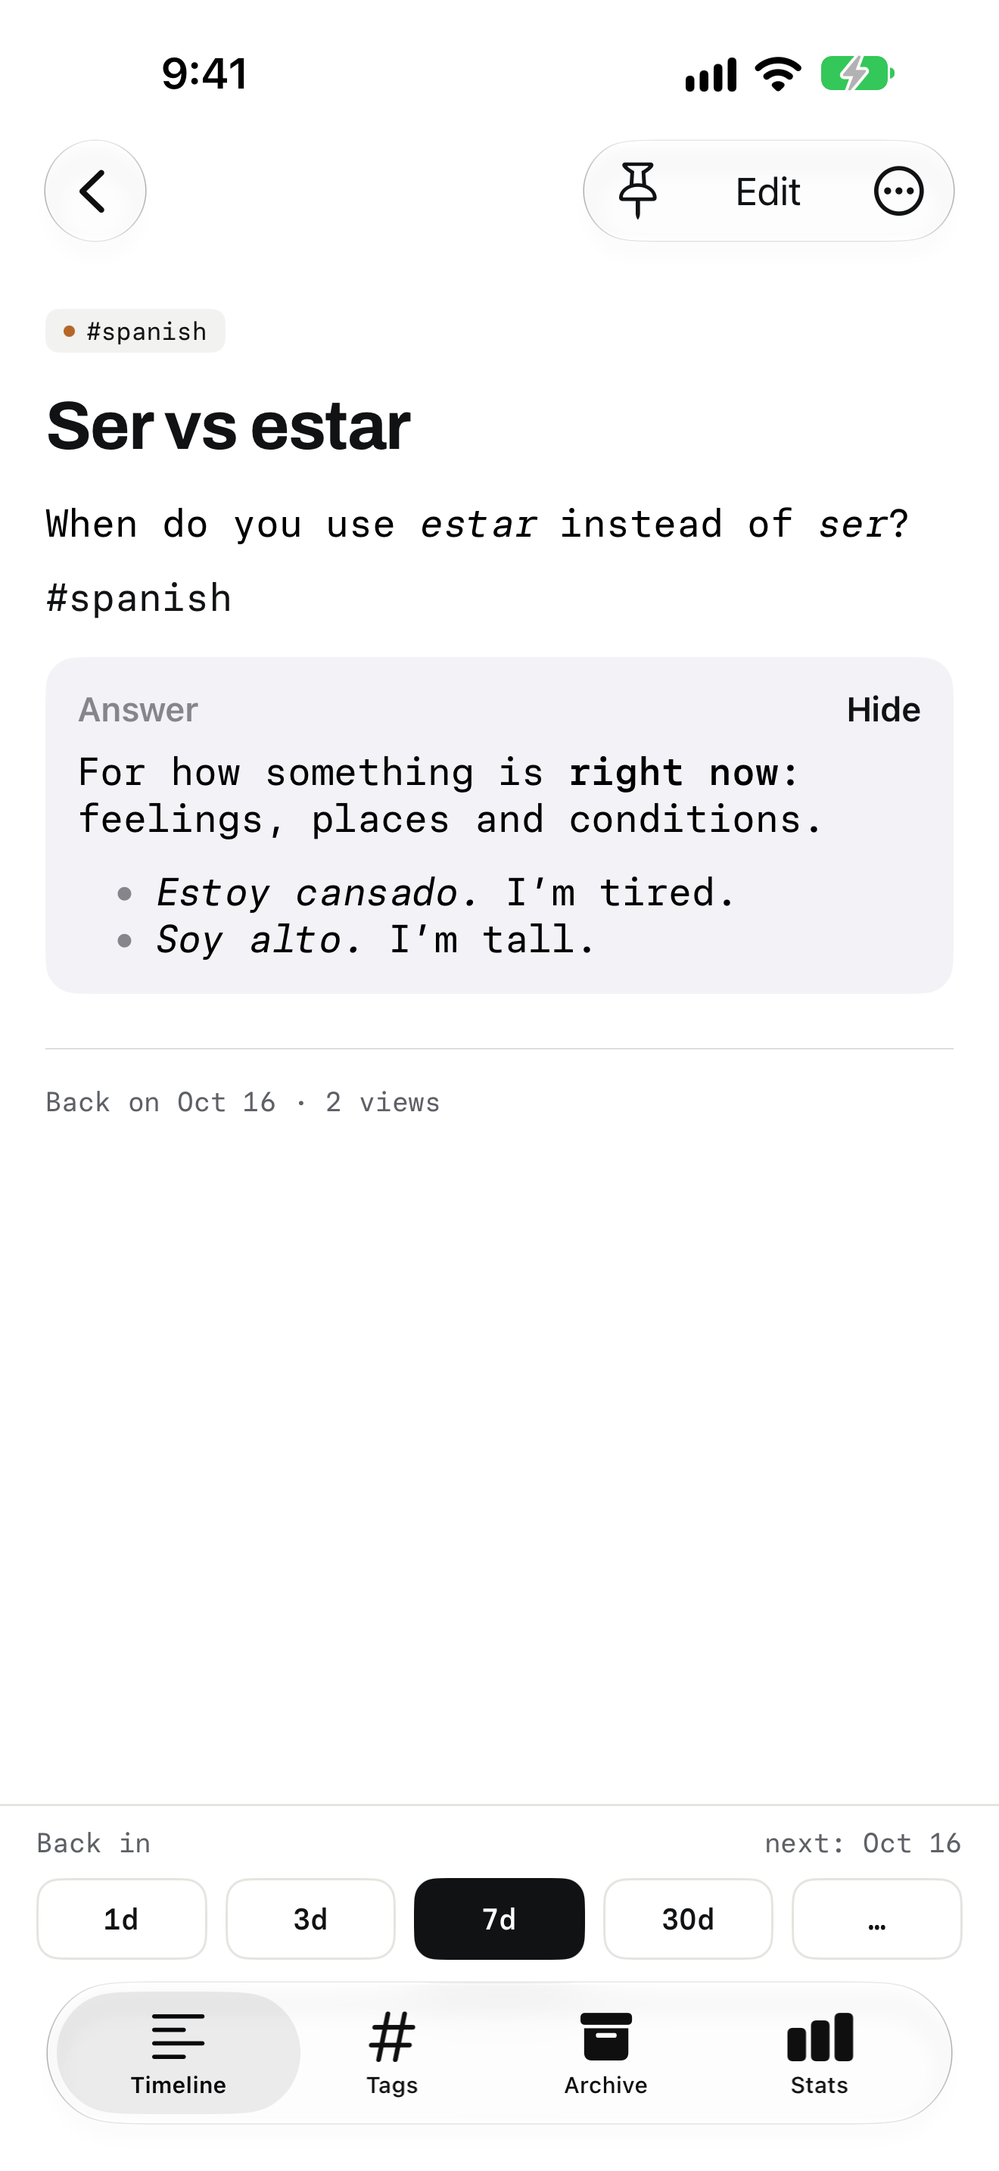
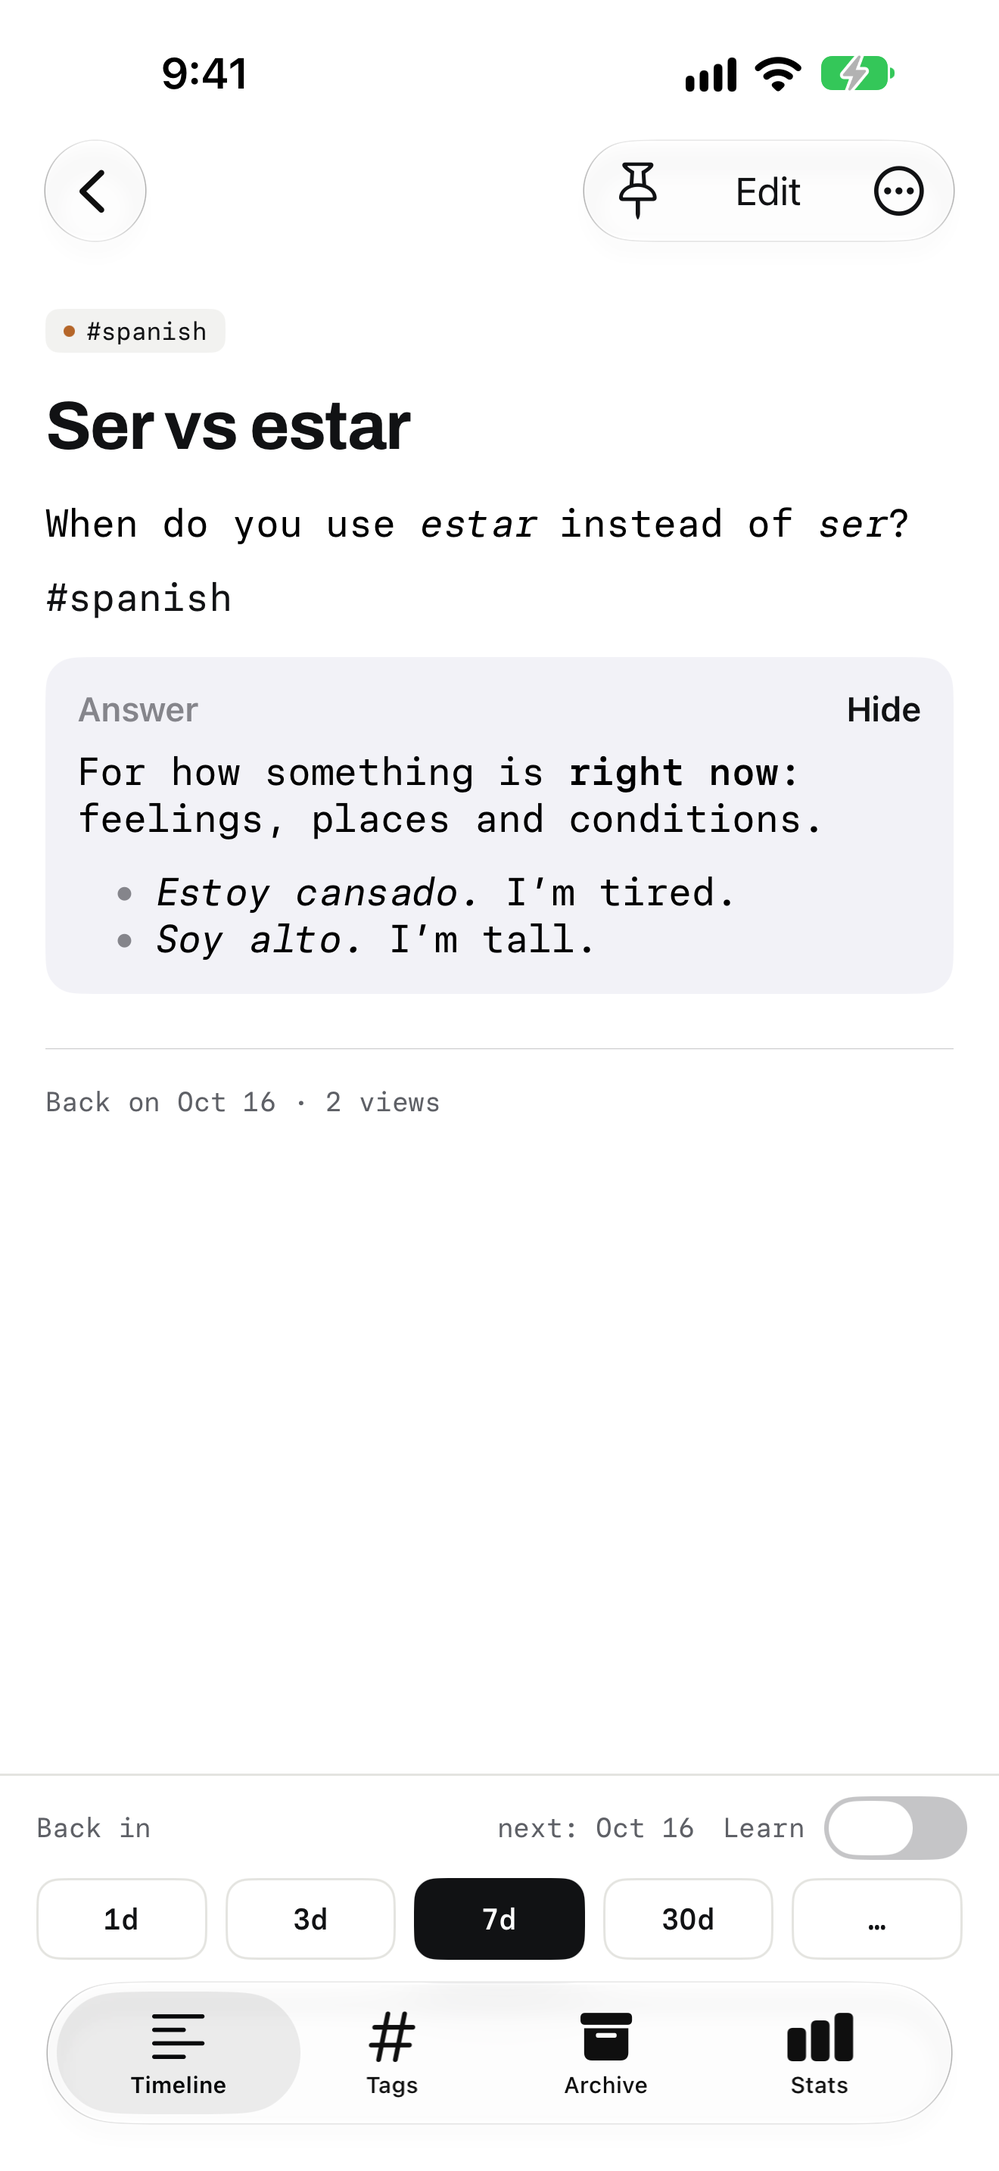
Screenshots: Learn mode shot, cascaded themes, nine shots
Adds a third shot for Learn mode (a due Dickinson thought revealed above
Again / Got it) and lays the six themes out as an overlapping cascade with
Ink in front, without labels. Shots renumber to nine. The seed gains a
Learn thought; ThoughtStore.overrideSchedule takes an optional
learnIntervalDays so screenshot mode can set its starting wait.

Claude-Session: https://claude.ai/code/session_011CAt5bFCarCYGzVZsuaqxT

diff --git a/app-store-assets/Screenshots/src/copy.js b/app-store-assets/Screenshots/src/copy.js
@@ -1,6 +1,6 @@
 // All screenshot copy, in App Store order. `name` is the output; `raws` are the captures it shows from raw/ (set by
 // ThoughtRepsUITests/ScreenshotTests.swift), one phone each, laid out by `layout` (default: one phone; 'pair': before
-// and after; 'grid': 3x2 with `labels` under the phones). `<mark>` highlights a word; `<loop></loop>` draws the loop
+// and after; 'cascade': stepping down to the right, the last in front). `<mark>` highlights a word; `<loop></loop>` draws the loop
 // mark. Lines of a headline are separated by <br>. Loaded by shot.html, preview.html and gen.mjs.
 // Claims are checked against the shipped app: default interval 7 days (Settings), quick intervals 1d/3d/7d/30d plus
 // "…" with more and "Custom…" (ThoughtDetailView), Markdown + gallery blocks, blurred blocks hidden until tapped
@@ -8,14 +8,16 @@
 // one reminder a day at the chosen time (SettingsView, ReminderPlanner).
 // The first three show in search results. One supporting line per shot may carry a search word (commonplace book,
 // quote, idea, note, journal) where it reads naturally.
-const THEMES = ['Ink', 'Library', 'Midnight', 'Garden', 'Terminal', 'Pop'];
+// Back to front: light and dark alternate, and Ink, the default, is in front.
+const CASCADE = ['pop', 'terminal', 'garden', 'midnight', 'library', 'ink'];
 const SHOTS = [
   { name: '01-timeline', headline: 'Write it down.<br>It comes <mark>back</mark><loop></loop>', support: 'A commonplace book that brings every quote and idea back in 7 days.' },
   { name: '02-blurred', headline: 'Hide the answer.<br><mark>Test</mark> yourself.', support: 'Blur part of any thought until you tap to reveal it.', layout: 'pair', raws: ['02-blurred-before', '02-blurred-after'] },
-  { name: '03-themes', headline: 'Six looks,<br><mark>all</mark> included.', support: 'Ink, Library, Midnight, Garden, Terminal and Pop.', layout: 'grid', raws: THEMES.map((t) => `03-themes-${t.toLowerCase()}`), labels: THEMES },
-  { name: '04-interval', headline: 'Pick when you<br>see it <mark>again</mark>.', support: 'Bring it back in 1, 3, 7 or 30 days, or set your own.' },
-  { name: '05-markdown-photos', headline: 'Write in <mark>Markdown</mark>,<br>add photos.', support: 'Headings, lists, quotes and photo galleries in any thought.' },
-  { name: '06-search', headline: 'Find any thought<br>in a <mark>second</mark>.', support: 'Search every note and journal entry, active or archived.' },
-  { name: '07-tags', headline: 'Sort with <mark>#tags</mark>.', support: 'Tag thoughts as you write, and give each tag its own color.' },
-  { name: '08-reminders', headline: 'Get a <mark>nudge</mark>,<br>not a nag.', support: 'One reminder a day at the time you pick, only when thoughts are due.' },
+  { name: '03-learn', headline: 'Learn it<br>for <mark>good</mark>.', support: 'Tap Again or Got it. Each Got it waits longer: 7, 12, 20 days.' },
+  { name: '04-themes', headline: 'Six looks,<br><mark>all</mark> included.', support: 'Ink, Library, Midnight, Garden, Terminal and Pop.', layout: 'cascade', raws: CASCADE.map((t) => `04-themes-${t}`) },
+  { name: '05-interval', headline: 'Pick when you<br>see it <mark>again</mark>.', support: 'Bring it back in 1, 3, 7 or 30 days, or set your own.' },
+  { name: '06-markdown-photos', headline: 'Write in <mark>Markdown</mark>,<br>add photos.', support: 'Headings, lists, quotes and photo galleries in any thought.' },
+  { name: '07-search', headline: 'Find any thought<br>in a <mark>second</mark>.', support: 'Search every note and journal entry, active or archived.' },
+  { name: '08-tags', headline: 'Sort with <mark>#tags</mark>.', support: 'Tag thoughts as you write, and give each tag its own color.' },
+  { name: '09-reminders', headline: 'Get a <mark>nudge</mark>,<br>not a nag.', support: 'One reminder a day at the time you pick, only when thoughts are due.' },
 ];

diff --git a/ThoughtRepsUITests/ScreenshotTests.swift b/ThoughtRepsUITests/ScreenshotTests.swift
@@ -33,7 +33,7 @@ final class ScreenshotTests: XCTestCase {
 
     func testTimeline() {
         launch()
-        XCTAssertTrue(app.staticTexts["Weekend in the mountains"].waitForExistence(timeout: 10))
+        XCTAssertTrue(app.staticTexts["Hope is the thing with feathers"].waitForExistence(timeout: 10))
         snap("01-timeline")
     }
 
@@ -49,13 +49,25 @@ final class ScreenshotTests: XCTestCase {
         snap("02-blurred-after")
     }
 
-    /// One thought in each theme, for the 3x2 grid.
+    /// A due Learn thought with its blurred lines revealed, above Again / Got it.
+    func testLearnMode() {
+        launch()
+        openThought("Hope is the thing with feathers")
+        let hidden = app.buttons["Lines, hidden"]
+        XCTAssertTrue(hidden.waitForExistence(timeout: 10))
+        hidden.tap()
+        XCTAssertTrue(hidden.waitForNonExistence(timeout: 10))
+        XCTAssertTrue(app.buttons.matching(NSPredicate(format: "label BEGINSWITH 'Got it'")).firstMatch.exists)
+        snap("03-learn")
+    }
+
+    /// One thought in each theme, for the cascade.
     func testThemes() {
         for theme in ["ink", "library", "midnight", "garden", "terminal", "pop"] {
             launch(["-screenshotTheme", theme])
             openThought("The cost of a thing")
             XCTAssertTrue(app.buttons["More intervals"].waitForExistence(timeout: 10))
-            snap("03-themes-\(theme)")
+            snap("04-themes-\(theme)")
             app.terminate()
         }
     }
@@ -64,14 +76,22 @@ final class ScreenshotTests: XCTestCase {
         launch()
         openThought("Thirteen virtues, one a week")
         XCTAssertTrue(app.buttons["More intervals"].waitForExistence(timeout: 10))
-        snap("04-interval")
+        snap("05-interval")
     }
 
     func testMarkdownAndPhotos() {
         launch()
+        // Not due, so it's opened from its tag's "All" list.
+        app.tabBars.buttons["Tags"].tap()
+        let travel = app.staticTexts["#travel"]
+        XCTAssertTrue(travel.waitForExistence(timeout: 10))
+        travel.tap()
+        let all = app.buttons["All"]
+        XCTAssertTrue(all.waitForExistence(timeout: 10))
+        all.tap()
         openThought("Weekend in the mountains")
         XCTAssertTrue(app.buttons["Moodboard image 1 of 4"].waitForExistence(timeout: 10))
-        snap("05-markdown-photos")
+        snap("06-markdown-photos")
     }
 
     func testSearch() {
@@ -85,14 +105,14 @@ final class ScreenshotTests: XCTestCase {
         field.typeText("reflect")
         XCTAssertTrue(app.staticTexts["Why journals work"].waitForExistence(timeout: 10))
         app.keyboards.buttons["Search"].tap()
-        snap("06-search")
+        snap("07-search")
     }
 
     func testTags() {
         launch()
         app.tabBars.buttons["Tags"].tap()
         XCTAssertTrue(app.staticTexts["#journal"].waitForExistence(timeout: 10))
-        snap("07-tags")
+        snap("08-tags")
     }
 
     /// The app schedules its test reminder 15 seconds out (asking for permission the first time on a
@@ -105,6 +125,6 @@ final class ScreenshotTests: XCTestCase {
         XCUIDevice.shared.perform(NSSelectorFromString("pressLockButton"))
         let banner = springboard.staticTexts["4 thoughts are back today"]
         XCTAssertTrue(banner.waitForExistence(timeout: 30), springboard.debugDescription)
-        snap("08-reminders", settle: 0.6)
+        snap("09-reminders", settle: 0.6)
     }
 }

diff --git a/ThoughtReps/App/ScreenshotMode.swift b/ThoughtReps/App/ScreenshotMode.swift
@@ -54,12 +54,14 @@ enum ScreenshotSeed {
         var dueInDays: Int
         var pinned = false
         var views = 0
+        /// Learn mode, with this last gap (so Got it shows the next, longer one).
+        var learnGap: Int? = nil
         var blurred: (title: String, content: String)? = nil
         var gallery: (title: String, scenes: [Scene])? = nil
     }
 
     /// A commonplace book: quotes with their source, book notes, lessons, sermon and podcast takeaways.
-    /// Quotes are public domain only (Thoreau's *Walden*, Franklin's *Autobiography*, Emerson).
+    /// Quotes and poems are public domain only (Thoreau's *Walden*, Franklin's *Autobiography*, Emerson, Dickinson).
     /// The Timeline shot shows the pinned thought and the four due ones; the reminder says "4 thoughts".
     private static let items: [Item] = [
         Item(
@@ -103,8 +105,13 @@ enum ScreenshotSeed {
 
             #travel
             """,
-            createdDaysAgo: 7, dueInDays: 0,
+            createdDaysAgo: 7, dueInDays: 1,
             gallery: ("Moodboard", [.dusk, .alpine, .meadow, .city])
+        ),
+        Item(
+            body: "# Hope is the thing with feathers\nSay the first two lines of Emily Dickinson’s poem from memory.\n\n#poems",
+            createdDaysAgo: 9, dueInDays: 0, views: 2, learnGap: 7,
+            blurred: ("Lines", "“Hope” is the thing with feathers –  \nThat perches in the soul –")
         ),
         Item(
             body: "# Why journals work\nWriting builds reflection into the day. Notice what keeps coming back.\n\n#journal",
@@ -155,6 +162,7 @@ enum ScreenshotSeed {
         "spanish": "#B56629",
         "sermons": "#5F6B7A",
         "ideas": "#7A4FC4",
+        "poems": "#BF4066",
     ]
 
     static func insert(into context: ModelContext, now: Date) {
@@ -170,7 +178,7 @@ enum ScreenshotSeed {
                 blocks.append(BlockDraft(kind: .gallery, title: gallery.title, images: images))
             }
             let created = Scheduler.adding(days: -item.createdDaysAgo, to: now, calendar: calendar)
-            let thought = store.create(body: item.body, blocks: blocks, now: created)
+            let thought = store.create(body: item.body, blocks: blocks, learn: item.learnGap != nil, now: created)
             guard thought.modelContext != nil else {
                 preconditionFailure("Screenshot seed: saving \"\(item.body.prefix(40))\" failed")
             }
@@ -186,7 +194,9 @@ enum ScreenshotSeed {
                     Scheduler.adding(days: -1, to: now, calendar: calendar)
                 )
                 : nil
-            store.overrideSchedule(thought, nextDueAt: nextDueAt, lastViewedAt: lastViewedAt, viewCount: item.views)
+            store.overrideSchedule(
+                thought, nextDueAt: nextDueAt, lastViewedAt: lastViewedAt, viewCount: item.views, learnIntervalDays: item.learnGap
+            )
             if item.pinned { store.setPinned(thought, true) }
         }
         let tags = (try? context.fetch(FetchDescriptor<Tag>())) ?? []

diff --git a/app-store-assets/Screenshots/src/shot.html b/app-store-assets/Screenshots/src/shot.html
@@ -15,7 +15,6 @@
   .phone { --bw: calc(var(--sw) * 0.0229); position: absolute; width: var(--sw); height: calc(var(--sw) * 2868 / 1320); border: var(--bw) solid var(--ink); border-radius: calc(var(--sw) * 0.125 + var(--bw)); box-shadow: calc(var(--sw) * 0.025) calc(var(--sw) * 0.025) 0 var(--ink); background: var(--paper); overflow: hidden; }
   .phone img { display: block; width: 100%; height: 100%; }
   .island { position: absolute; left: 50%; top: calc(var(--sw) * 0.0229); width: calc(var(--sw) * 0.2833); height: calc(var(--sw) * 0.0833); transform: translateX(-50%); border-radius: 999px; background: var(--ink); }
-  .label { position: absolute; font: 400 40px / 1 var(--mono); color: var(--ink); text-align: center; }
 </style>
 <div id="stage">
   <div class="copy"><h1 id="head"></h1><p class="support" id="support"></p></div>
@@ -44,10 +43,11 @@
     // Before at the left, after lower at the right, so the eye reads the tap left to right. The after phone overlaps
     // the before phone's right edge only below its blurred block.
     pair: () => [[40, 600, 640], [1320 - 40 - outer(640) - 16, 1260, 640]],
-    // 3x2, a label under each phone.
-    grid: () => {
-      const sw = 360, gap = (1320 - 3 * outer(sw)) / 4, row = outer(sw) * 2868 / 1320 + 90;
-      return [0, 1, 2, 3, 4, 5].map((i) => [gap + (i % 3) * (outer(sw) + gap) - 5, 620 + Math.floor(i / 3) * row, sw]);
+    // Phones stepping down to the right, each drawn over the one before, so the last is in front at full size and the
+    // others show their colors and title fonts along the edges.
+    cascade: (n) => {
+      const sw = 600, dx = (1320 - 80 - outer(sw)) / (n - 1);
+      return Array.from({ length: n }, (_, i) => [40 + i * dx, 640 + i * 150, sw]);
     },
   };
   window.render = async (name) => {
@@ -58,7 +58,7 @@
     head.innerHTML = html(shot.headline);
     document.getElementById('support').textContent = shot.support;
     const raws = shot.raws ?? [name];
-    const frames = LAYOUTS[shot.layout ?? 'single']();
+    const frames = LAYOUTS[shot.layout ?? 'single'](raws.length);
     const phones = document.getElementById('phones');
     phones.innerHTML = '';
     const decoded = raws.map((raw, i) => {
@@ -71,11 +71,6 @@
       img.src = `../raw/${raw}.png`;
       phone.append(img, Object.assign(document.createElement('div'), { className: 'island' }));
       phones.append(phone);
-      if (shot.labels) {
-        const label = Object.assign(document.createElement('div'), { className: 'label', textContent: shot.labels[i] });
-        label.style.cssText = `left: ${left}px; width: ${outer(sw)}px; top: ${top + outer(sw) * 2868 / 1320 + 28}px`;
-        phones.append(label);
-      }
       return img.decode();
     });
     await Promise.all(decoded);

diff --git a/ThoughtReps/Stores/ThoughtStore.swift b/ThoughtReps/Stores/ThoughtStore.swift
@@ -678,10 +678,11 @@ struct ThoughtStore {
     /// Sets schedule fields directly, bypassing the rules. Only for sample data,
     /// which needs thoughts in every state.
     @discardableResult
-    func overrideSchedule(_ thought: Thought, nextDueAt: Date, lastViewedAt: Date?, viewCount: Int) -> Bool {
+    func overrideSchedule(_ thought: Thought, nextDueAt: Date, lastViewedAt: Date?, viewCount: Int, learnIntervalDays: Int? = nil) -> Bool {
         thought.nextDueAt = nextDueAt
         thought.lastViewedAt = lastViewedAt
         thought.viewCount = viewCount
+        if thought.intervalMode == .learn { thought.learnIntervalDays = learnIntervalDays }
         return persist()
     }
 

diff --git a/app-store-assets/Screenshots/README.md b/app-store-assets/Screenshots/README.md
@@ -10,18 +10,19 @@ The product page screenshots (Apple's "Screenshots" asset): real simulator captu
 
 ## The set
 
-Output is `static/<name>-1320x2868.png`. The copy and the set live in one place, `src/copy.js` (which captures each output shows, and its layout). Claims are checked against the shipped app (default interval 7 days, 1d/3d/7d/30d chips plus more intervals and "Custom…", Markdown and gallery blocks, blurred blocks, six free themes, Active/Archived/All search, tag colors, one daily reminder at the chosen time); nothing from Study mode. The sample content reads like a commonplace book (a quote with its source, a book note, a sermon and a podcast takeaway, a lesson), and any quote in it must be public domain.
+Output is `static/<name>-1320x2868.png`. The copy and the set live in one place, `src/copy.js` (which captures each output shows, and its layout). Claims are checked against the shipped app (default interval 7 days, 1d/3d/7d/30d chips plus more intervals and "Custom…", Markdown and gallery blocks, blurred blocks, Learn mode's Again / Got it and its growing waits (7, 12, 20 days), six free themes, Active/Archived/All search, tag colors, one daily reminder at the chosen time); nothing from the unbuilt rest of Study mode. The sample content reads like a commonplace book (a quote with its source, a book note, a sermon and a podcast takeaway, a lesson, a poem to memorize), and any quote or poem in it must be public domain.
 
-1. `01-timeline`: "Write it down. It comes back." / "A commonplace book that brings every quote and idea back in 7 days." The Timeline with a pinned thought and four due thoughts (the seed keeps the list ending above the + button).
+1. `01-timeline`: "Write it down. It comes back." / "A commonplace book that brings every quote and idea back in 7 days." The Timeline with a pinned thought and four due thoughts, one of them in Learn mode (the seed keeps the list ending above the + button).
 2. `02-blurred`: "Hide the answer. Test yourself." / "Blur part of any thought until you tap to reveal it." Two phones, a thought with a blurred "Answer" block before and after the tap (`02-blurred-before`, `02-blurred-after`).
-3. `03-themes`: "Six looks, all included." / "Ink, Library, Midnight, Garden, Terminal and Pop." Six phones in a 3x2 grid, the same thought in each theme, its name underneath (`03-themes-<theme>`).
-4. `04-interval`: "Pick when you see it again." / "Bring it back in 1, 3, 7 or 30 days, or set your own." A thought with its "Back in" bar: 1d, 3d, 7d (selected), 30d and the more-intervals chip.
-5. `05-markdown-photos`: "Write in Markdown, add photos." / "Headings, lists, quotes and photo galleries in any thought." A thought with bold, italic, a list, a quote and a gallery.
-6. `06-search`: "Find any thought in a second." / "Search every note and journal entry, active or archived." Search for "reflect", matches in bold.
-7. `07-tags`: "Sort with #tags." / "Tag thoughts as you write, and give each tag its own color." The Tags list.
-8. `08-reminders`: "Get a nudge, not a nag." / "One reminder a day at the time you pick, only when thoughts are due." The reminder notification on the Lock Screen ("Thought Reps", "4 thoughts are back today").
+3. `03-learn`: "Learn it for good." / "Tap Again or Got it. Each Got it waits longer: 7, 12, 20 days." A due Learn thought (two Dickinson lines to memorize) with its blurred lines revealed above Again ("Tomorrow") and Got it ("In 12 days"; the seed sets its last wait to 7).
+4. `04-themes`: "Six looks, all included." / "Ink, Library, Midnight, Garden, Terminal and Pop." Six phones in a cascade, the same thought in each theme, Ink in front (`04-themes-<theme>`); the supporting line names them, so the phones carry no labels.
+5. `05-interval`: "Pick when you see it again." / "Bring it back in 1, 3, 7 or 30 days, or set your own." A thought with its "Back in" bar: 1d, 3d, 7d (selected), 30d and the more-intervals chip.
+6. `06-markdown-photos`: "Write in Markdown, add photos." / "Headings, lists, quotes and photo galleries in any thought." A thought with bold, italic, a list, a quote and a gallery (not due, so the test opens it from its tag).
+7. `07-search`: "Find any thought in a second." / "Search every note and journal entry, active or archived." Search for "reflect", matches in bold.
+8. `08-tags`: "Sort with #tags." / "Tag thoughts as you write, and give each tag its own color." The Tags list.
+9. `09-reminders`: "Get a nudge, not a nag." / "One reminder a day at the time you pick, only when thoughts are due." The reminder notification on the Lock Screen ("Thought Reps", "4 thoughts are back today").
 
-The first three are the strongest ideas: the loop, the most distinctive feature, and the themes. One supporting line per shot may carry a search word (commonplace book, quote, idea, note, journal) where it reads naturally. The phone is drawn in CSS (ink border, hard offset shadow, a plain island); it is not Apple artwork. All eight use one headline size, the largest at which the widest headline fits.
+The first three are the strongest ideas: the loop, self-testing with a blurred answer, and Learn mode. One supporting line per shot may carry a search word (commonplace book, quote, idea, note, journal) where it reads naturally. The phone is drawn in CSS (ink border, hard offset shadow, a plain island); it is not Apple artwork. All nine use one headline size, the largest at which the widest headline fits.
 
 ## How the captures work
 
@@ -35,7 +36,7 @@ The tests live in their own scheme, `ThoughtRepsScreenshots`, so a normal `xcode
 
 ```
 node app-store-assets/Screenshots/gen.mjs                 # composite static/ from the committed raw/ (seconds, no Xcode)
-node app-store-assets/Screenshots/gen.mjs 06-search       # only outputs whose name contains the argument
+node app-store-assets/Screenshots/gen.mjs 07-search       # only outputs whose name contains the argument
 node app-store-assets/Screenshots/gen.mjs --capture       # re-capture raw/ in the simulator first (about three minutes), then composite
 ```
 
